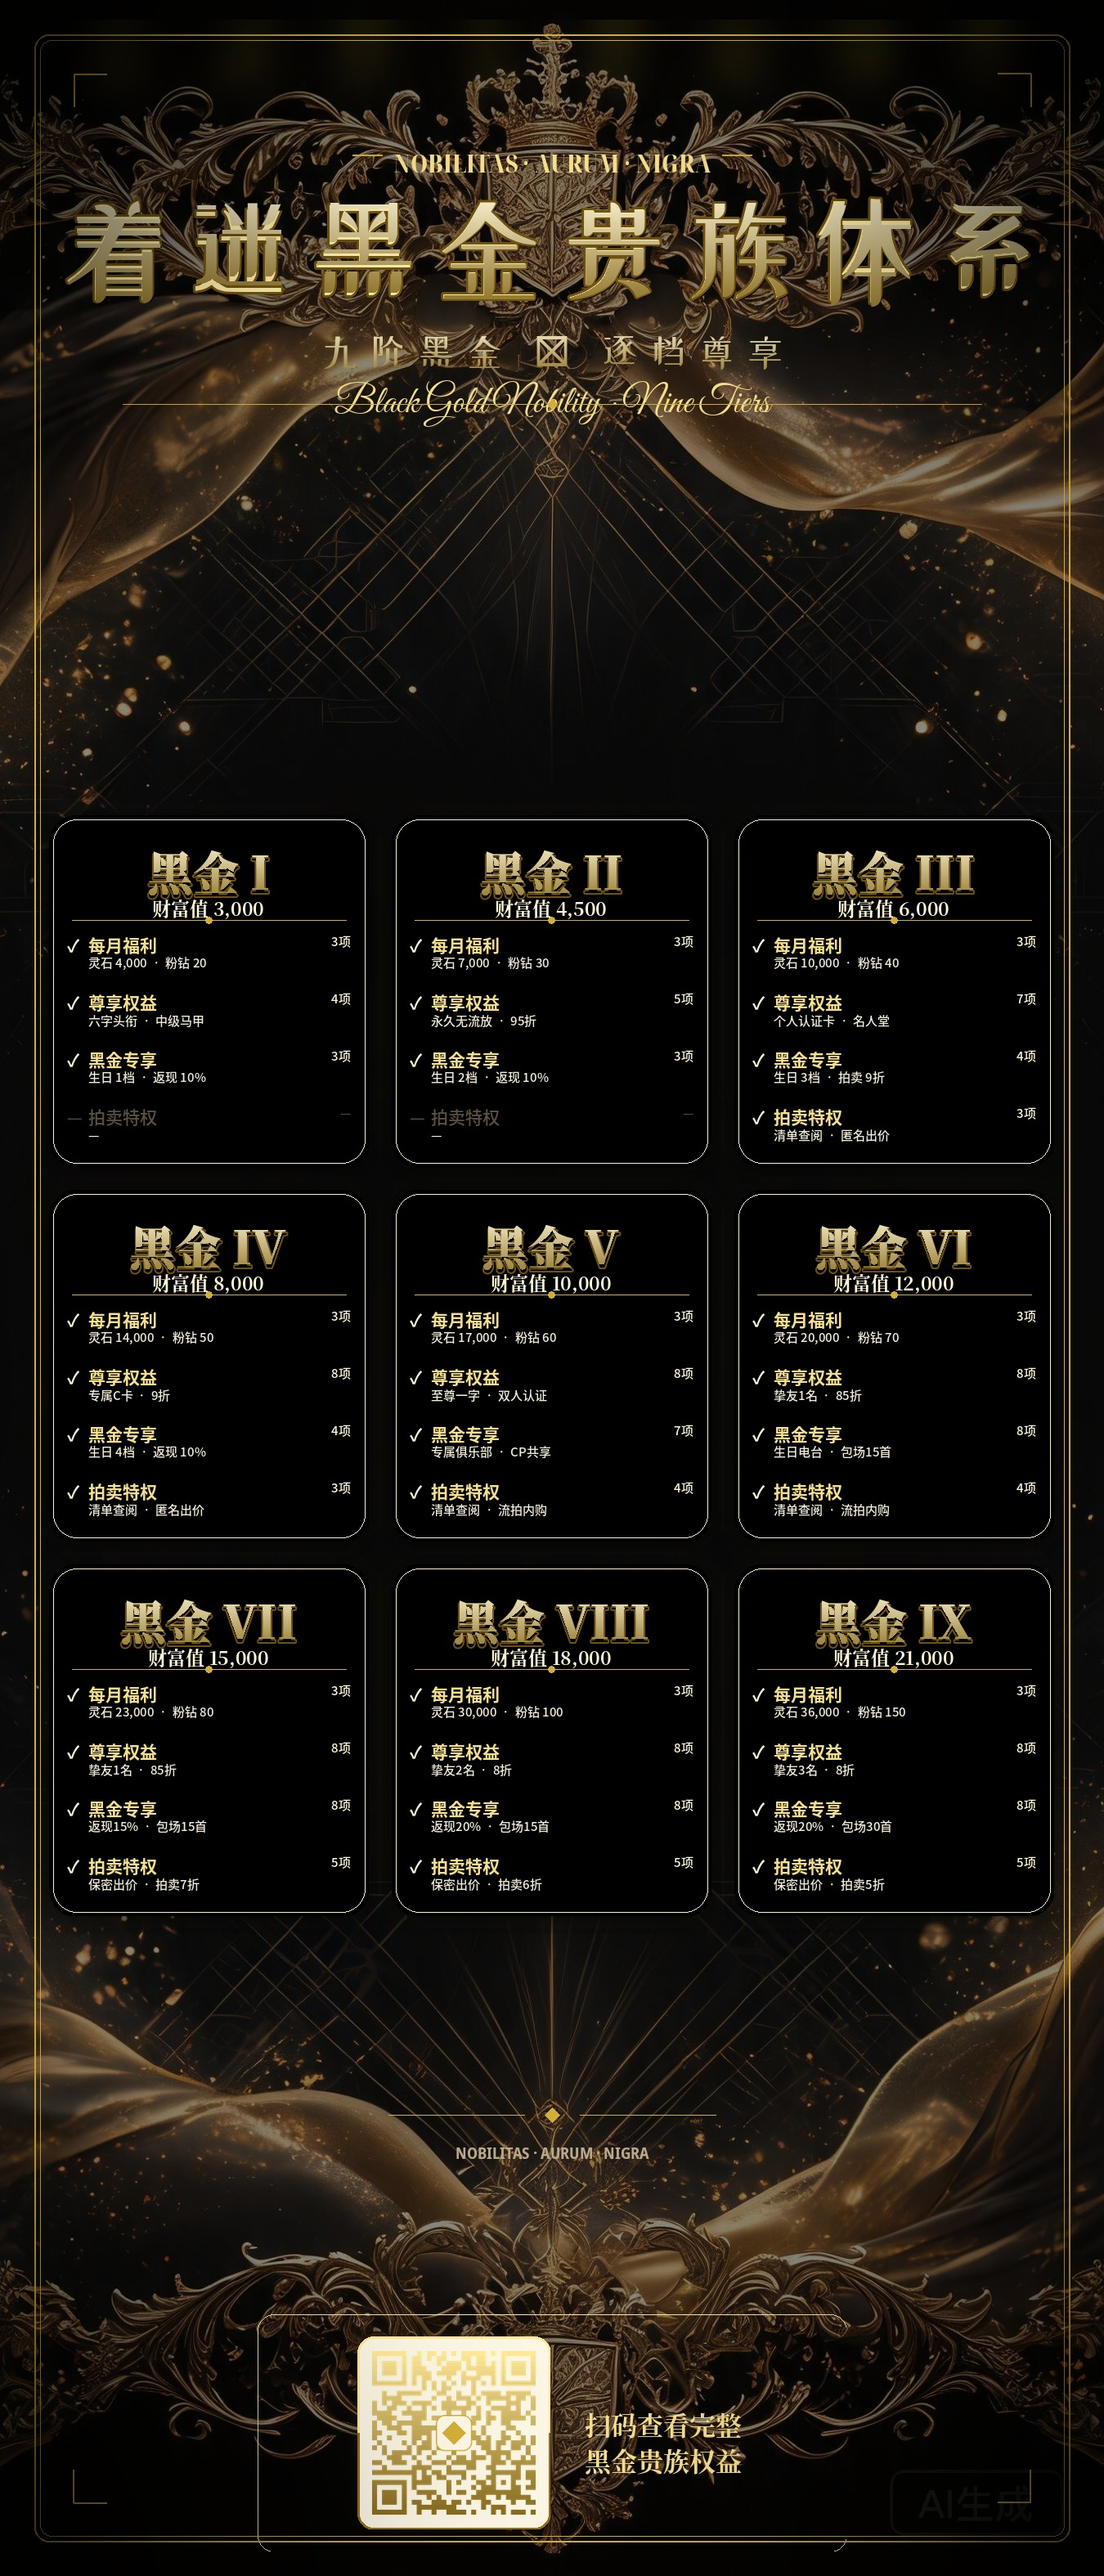
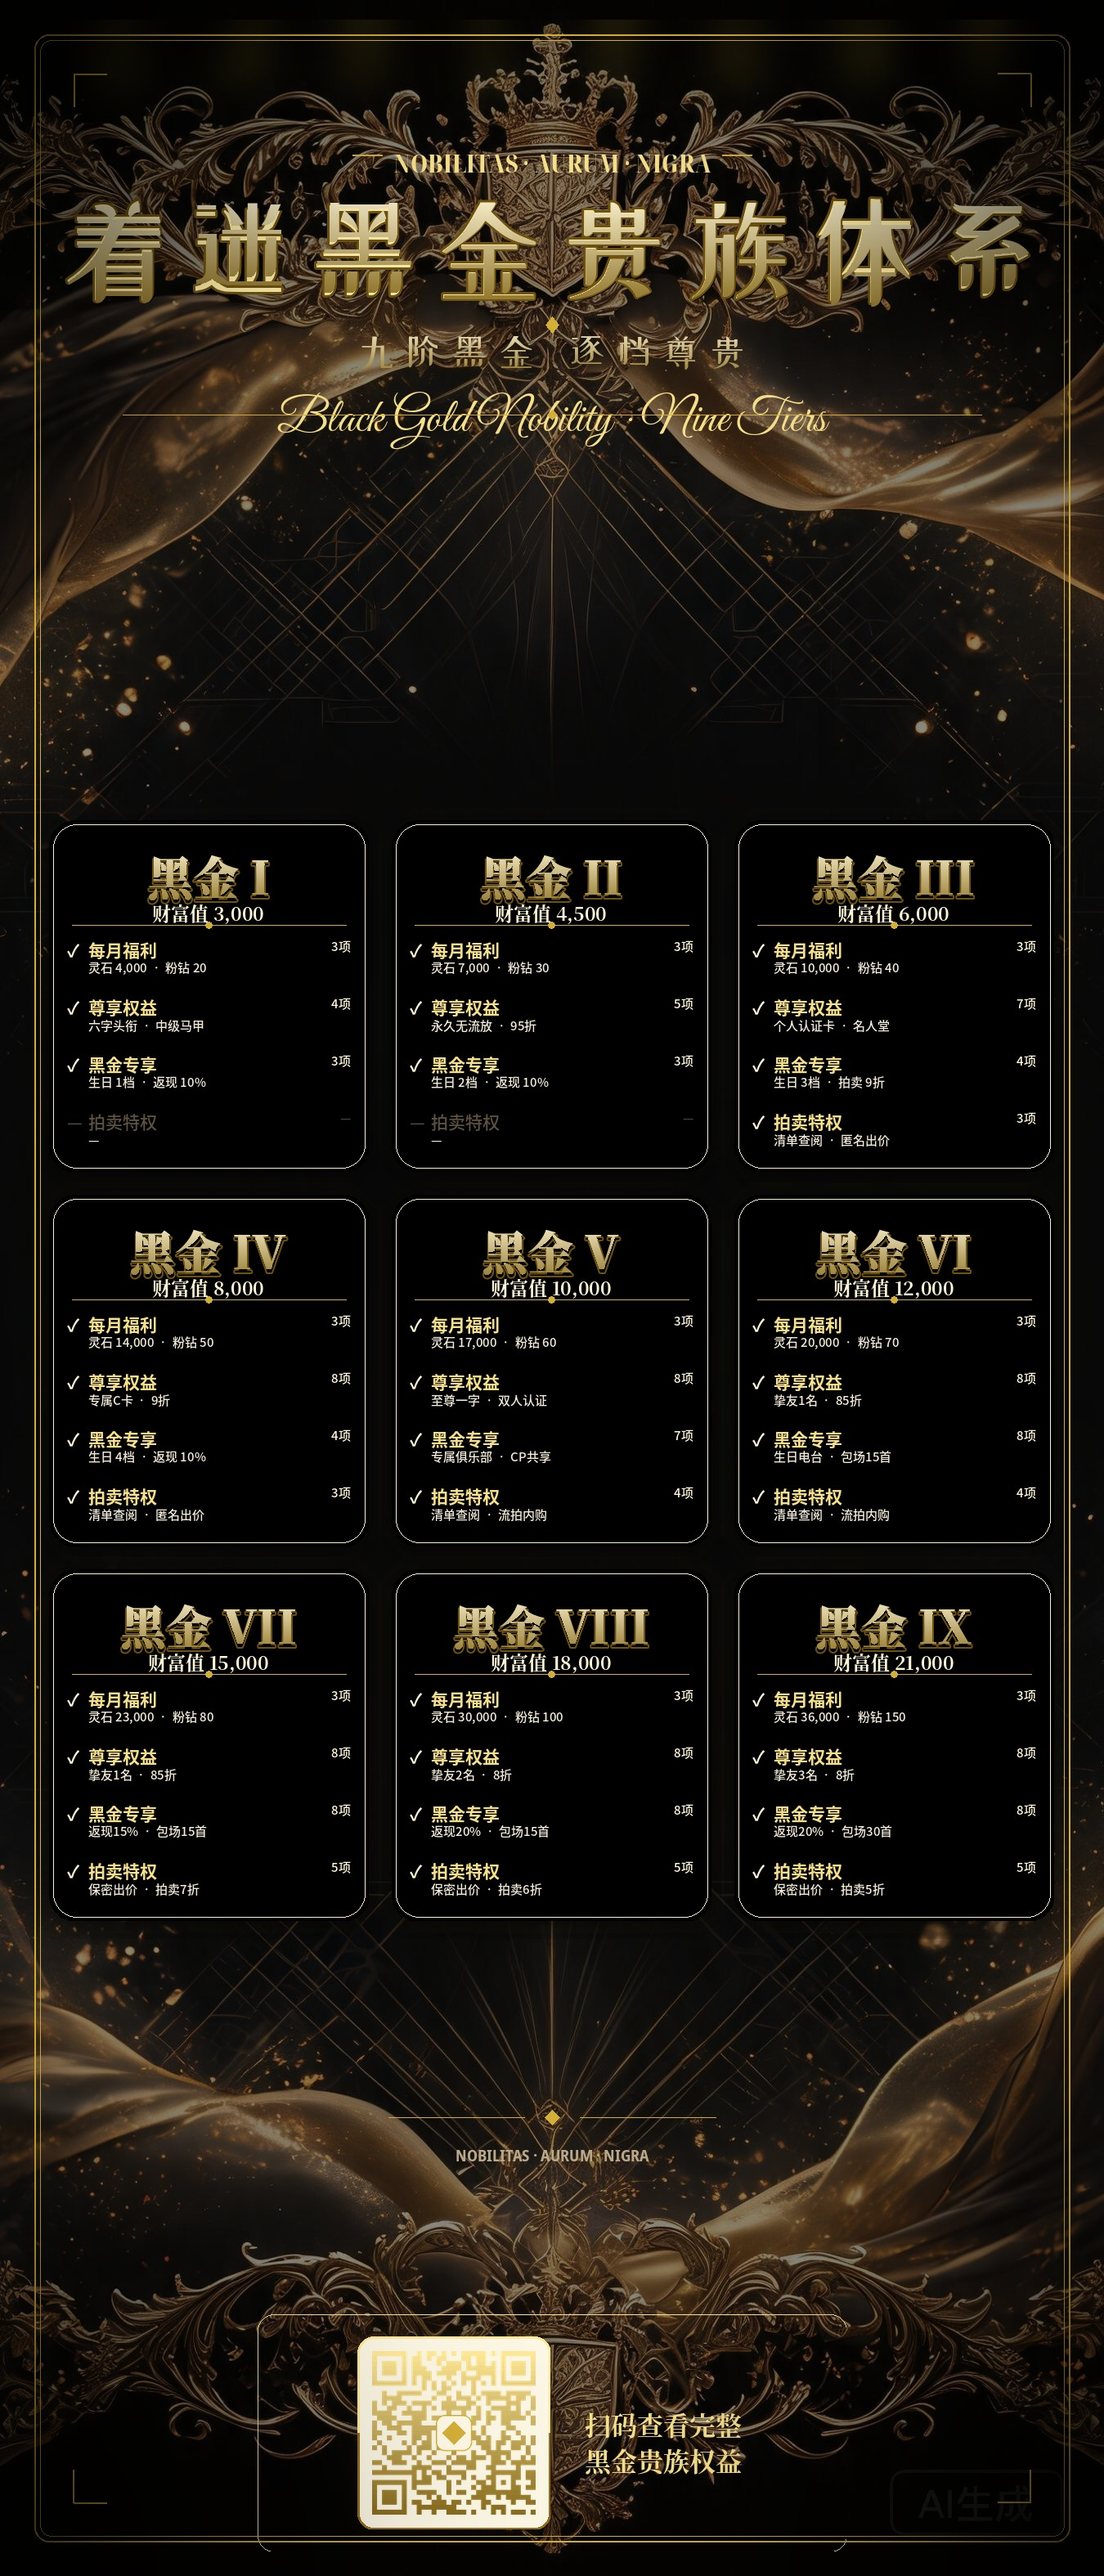
页面:底部加备注说明(4条);海报:副标题改'九阶黑金◆逐档尊贵'(手绘菱形修复缺字)+英文花字下移加大到58px

diff --git a/index.html b/index.html
@@ -128,6 +128,17 @@ td.col-8,td.col-9{background:rgba(212,175,55,.05)}
 .hint{text-align:center;font-family:var(--serif);font-size:11px;letter-spacing:.2em;color:var(--dim);margin:4px 0 10px;flex:0 0 auto}
 .hint::before{content:"— ";color:var(--gold-deep)}
 .hint::after{content:" —";color:var(--gold-deep)}
+
+/* 备注说明 */
+.notes{margin:18px 14px 6px;padding:16px 18px;border:1px solid var(--gold-line-strong);border-radius:10px;
+  background:linear-gradient(180deg,rgba(28,20,9,.7),rgba(14,9,4,.7));box-shadow:0 0 18px rgba(212,175,55,.06) inset;flex:0 0 auto}
+.notes-title{font-family:var(--serif);font-size:15px;color:var(--gold);letter-spacing:.25em;text-align:center;margin:0 0 12px;
+  background:linear-gradient(180deg,#fff7d6,#ffe9a8 45%,var(--gold) 75%,var(--gold-deep));-webkit-background-clip:text;background-clip:text;color:transparent}
+.notes-title::before{content:"◆ ";color:var(--gold-deep);font-size:10px;vertical-align:middle}
+.notes-title::after{content:" ◆";color:var(--gold-deep);font-size:10px;vertical-align:middle}
+.notes-list{margin:0;padding-left:22px;font-family:var(--serif);font-size:12px;line-height:1.9;color:var(--cream)}
+.notes-list li{margin-bottom:4px}
+.notes-list li::marker{color:var(--gold)}
 main{display:flex;flex-direction:column;flex:1 1 auto;min-height:0}
 
 /* ===== 底部二维码 ===== */
@@ -158,6 +169,18 @@ main{display:flex;flex-direction:column;flex:1 1 auto;min-height:0}
   <div class="cmp-wrap">
     <table id="cmpTable"></table>
   </div>
+
+  <!-- 备注说明 -->
+  <section class="notes">
+    <h3 class="notes-title">备 注 说 明</h3>
+    <ol class="notes-list">
+      <li>好友位卡、平日主群冠名1日卡、平日BOT冠名1日卡，每月1日发放至背包，当月有效，不累计、不保留，月底到期自动清除。</li>
+      <li>尊享权益中的个人认证卡、双人认证卡、专属C卡，权益表中达成对应条件时获得。</li>
+      <li>群内开展充值活动期间，消费及充值折扣均不适用。</li>
+      <li>专属个人俱乐部群仅安排少量管理入驻，以保障群内娱乐氛围。</li>
+    </ol>
+  </section>
+
   <div class="hint">最终解释权归着迷管理组</div>
 </main>
 

diff --git a/make_poster.py b/make_poster.py
@@ -138,22 +138,37 @@ for ch in title:
     gold_text(ccx,ty,ch,tf,'ma')
     gx+=cw+SPACING
 
-sub='九阶黑金 · 逐档尊享'
+sub_left='九阶黑金'
+sub_right='逐档尊贵'
 sf=ART(46,'xiaowei')
-sub_sp=12
-sub_w=sum(tsize(ch,sf)[0] for ch in sub)+sub_sp*(len(sub)-1)
-sx0=CX-sub_w//2
-sub_y=ty+tsize(title,tf)[1]+34    # 拉大字距
+sub_sp=10
+# 计算两段宽度
+lw=sum(tsize(ch,sf)[0] for ch in sub_left)+sub_sp*(len(sub_left)-1)
+rw=sum(tsize(ch,sf)[0] for ch in sub_right)+sub_sp*(len(sub_right)-1)
+gap=40  # 中间菱形间距
+sub_total_w=lw+gap+rw
+sx0=CX-sub_total_w//2
+sub_y=ty+tsize(title,tf)[1]+34
+# 左段
 sx=sx0
-for ch in sub:
+for ch in sub_left:
+    cw,_=tsize(ch,sf)
+    gold_text(sx+cw//2,sub_y,ch,sf,'ma')
+    sx+=cw+sub_sp
+# 中间菱形（手绘，避免字体缺字）
+dia_x=sx0+lw+gap//2
+draw.polygon([(dia_x,sub_y-10),(dia_x+8,sub_y),(dia_x,sub_y+10),(dia_x-8,sub_y)],fill=(212,175,55,235))
+# 右段
+sx=sx0+lw+gap
+for ch in sub_right:
     cw,_=tsize(ch,sf)
     gold_text(sx+cw//2,sub_y,ch,sf,'ma')
     sx+=cw+sub_sp
 
-# 英文副标题：手写花体英文（Great Vibes）
+# 英文副标题：手写花体英文（Great Vibes），下移+加大
 lead='Black Gold Nobility · Nine Tiers'
-lf=SCRIPT(46,'great')
-ly=sub_y+tsize(sub,sf)[1]+26
+lf=SCRIPT(58,'great')
+ly=sub_y+tsize(sub_left,sf)[1]+40
 txt(CX,ly,lead,lf,GOLD,'ma')
 
 dy=ly+30
